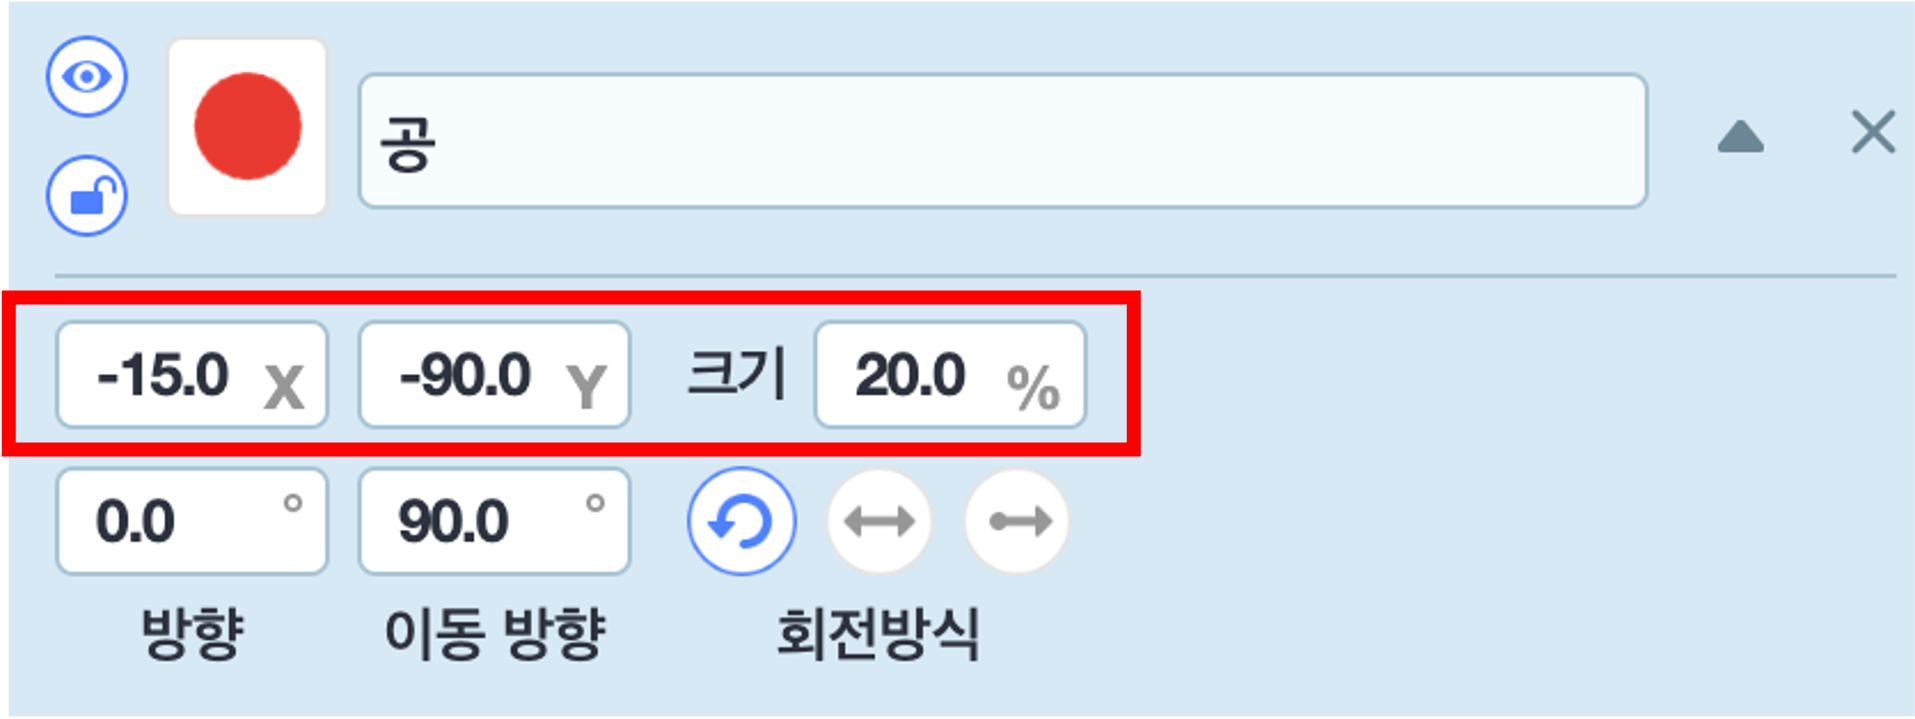
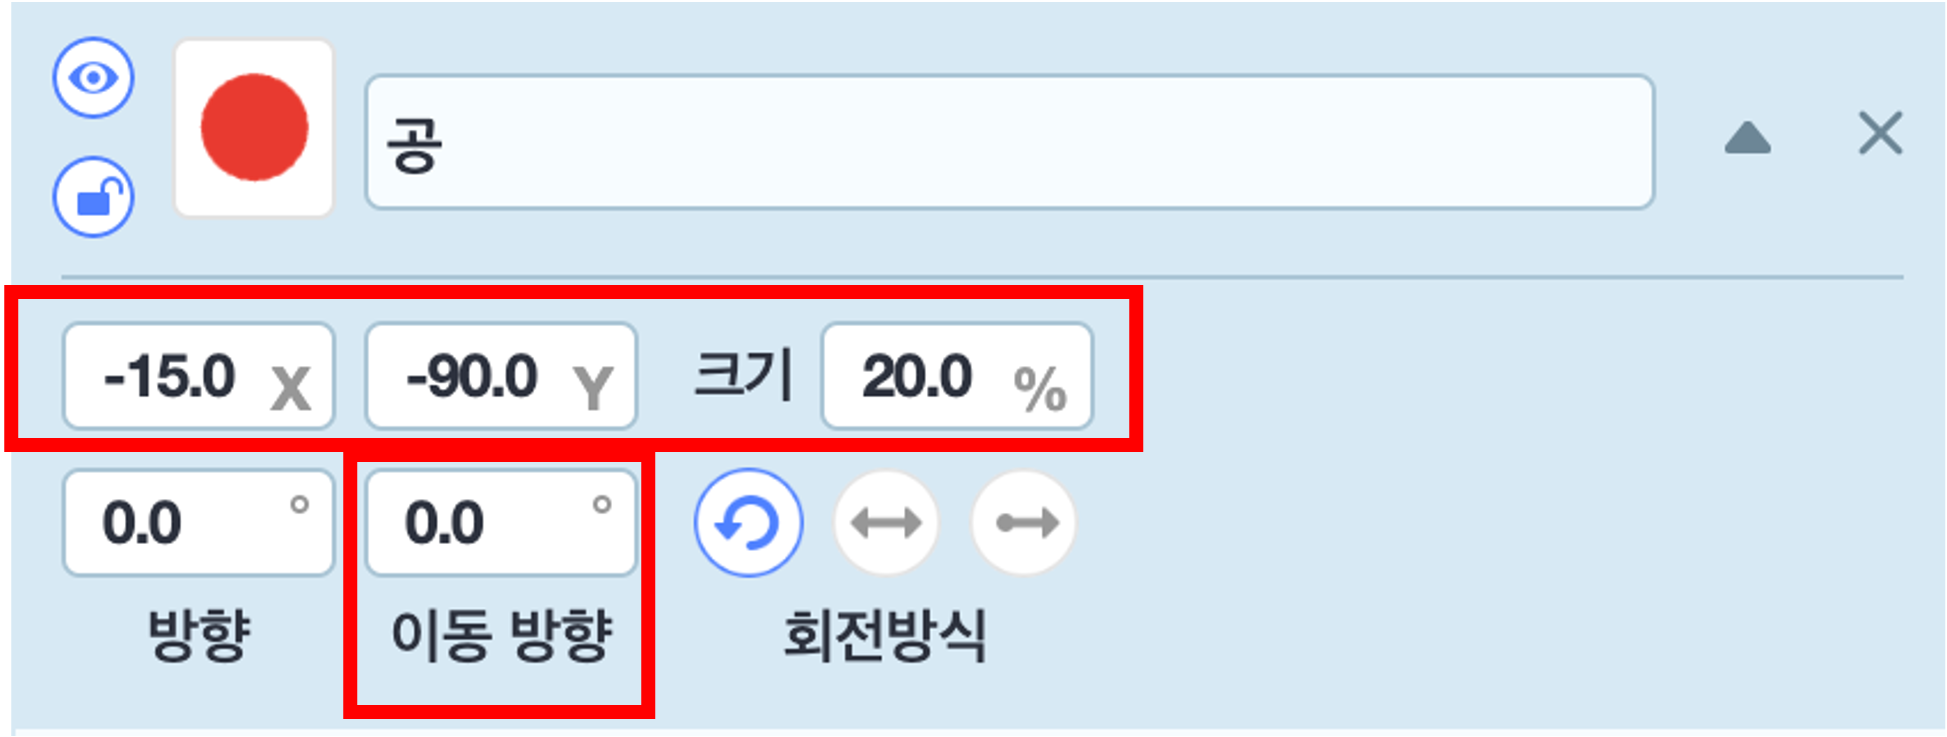
.

diff --git a/[S01] 엔트리 프로그래밍/17_벽돌깨기 게임2.md b/[S01] 엔트리 프로그래밍/17_벽돌깨기 게임2.md
@@ -4,7 +4,7 @@
 🚩 복제본을 사용하여 벽돌을 생성할 수 있고, 공이 벽돌에 닿았다는 조건문을 활용해 복제본을 삭제할 수 있습니다. 
 
 🎮  **오늘 만들 게임 완성본**   
-[]() 
+[https://naver.me/x2jut0VZ](https://naver.me/x2jut0VZ) 
 
 ## 1. 게임 개요
 ![](img/17_벽돌깨기/1.png)
@@ -36,7 +36,7 @@
 
 
 > ![](img/17_벽돌깨기/6.png)
-- '공'오브젝트의 위치와 크기 수치를 조정해주세요. 
+- '공'오브젝트의 위치와 크기, 이동방향 수치를 조정해주세요. 
 
 **패들 추가하기**
 
@@ -56,7 +56,7 @@
 **변수추가**
 
 > ![](img/17_벽돌깨기/10.png)
-- '벽돌개수' 변수를 추가해주세요.
+- '벽돌개수' 변수를 추가하고, 눈모양 버튼을 눌러 안보이게 해주세요.
 
 **신호추가** 
 
@@ -65,21 +65,41 @@
 
 ### 🧩 벽돌 코딩하기
 ![](img/17_벽돌깨기/12.png)
+- 벽돌이 복제되도록 해주고 벽돌 개수를 세서 '벽돌개수' 변수값을 변경시켜 줍니다. 
+- 복제 될 때마다 x 좌표 값이 변경되도록 하고,  
+- 한 줄을 다 채우고나면, x좌표 원위치로 돌아가고, 한 단 내려가기 위해 y좌표를 적당한 크기만큼 내려줍니다.
 
 ![](img/17_벽돌깨기/13.png)
-
-### 🧩 공 코딩하기
-![](img/17_벽돌깨기/14.png)
-
-![](img/17_벽돌깨기/15.png)
+- 모든 복제본 오브젝트들이 '공' 오브젝트에 닿으면 삭제되고, '벽돌개수' 변수도 감소시켜주세요. 
 
 ### 🧩 패들 코딩하기
 ![](img/17_벽돌깨기/16.png)
+- 패들이 오른쪽 벽을 넘어가기 전까지, 즉 x좌표가 240이하라면 오른쪽 화살표를 눌렀을 때 패들이 x좌표가 10만큼 바뀌게 해줍니다.
+- 패들이 왼쪽 벽을 넘어가기 전까지, 즉 x좌표가 -240이상이라면 왼쪽 화살표를 눌렀을 때 패들이 x좌표가 -10만큼 바뀌게 해줍니다.
+
+### 🧩 공 코딩하기
+![](img/17_벽돌깨기/14.png)
+- 공의 방향을 -60부터 60사이의 무작위수로 설정해주세요.
+  
+![](img/17_벽돌깨기/15.png)
+- 블록이 다 나타나기까지 약 2초간 기다렸다가 이동방향으로 3만큼 움직이기를 계속 반복합니다.
+- 화면 끝에 닿으면 튕기게 합니다.
+- 만일 공이 **패들**에 닿으면, 다시 방향을 '-60부터 60만큼 무작위'로 튕겨지게 합니다.
+- 만일 공에 **벽돌**에 닿으면, 방향을 '180 - 공의 방향' 으로 정합니다.<br>
+
+
 
 ### 🧩 글상자 코딩하기
 ![](img/17_벽돌깨기/17.png)
 
+- 게임이 시작되었을 때는 글상자를 숨겨주세요.
+- 글상자는 게임시작 신호를 받았을 때 계속 기다리다가, 벽돌개수가 0개, 즉 모든 벽돌을 없앴을 때 YOU WIN이라고 쓴 글상자가 보이게 하고 모든 코드를 멈춰줍니다.
+
 ![](img/17_벽돌깨기/18.png)
+
+
+- 게임종료 신호를 받으면, YOU LOSE라는 글상자를 보이게 한 후 모든 코드를 멈춥니다. <br>
+
 
 <!-- <details>
 <summary> 요약 </summary>
